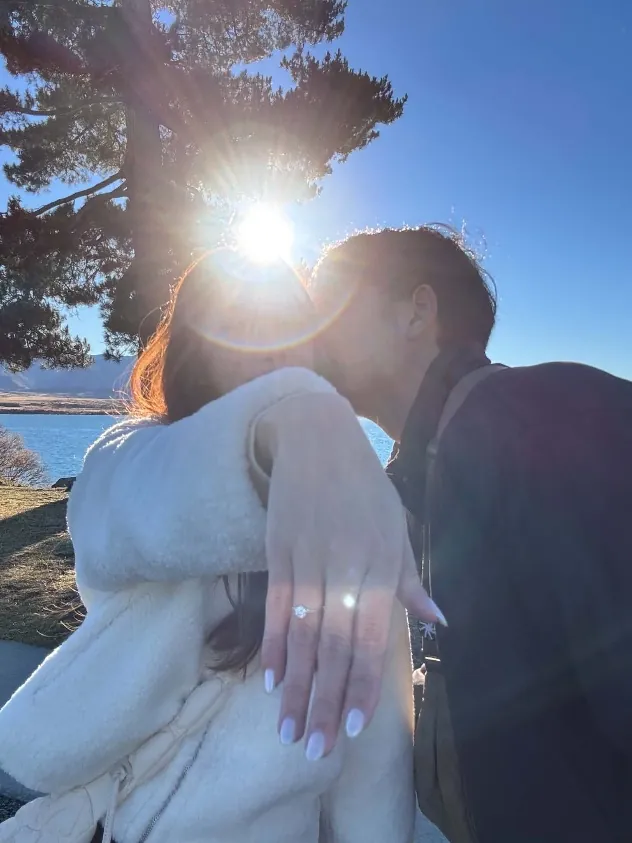
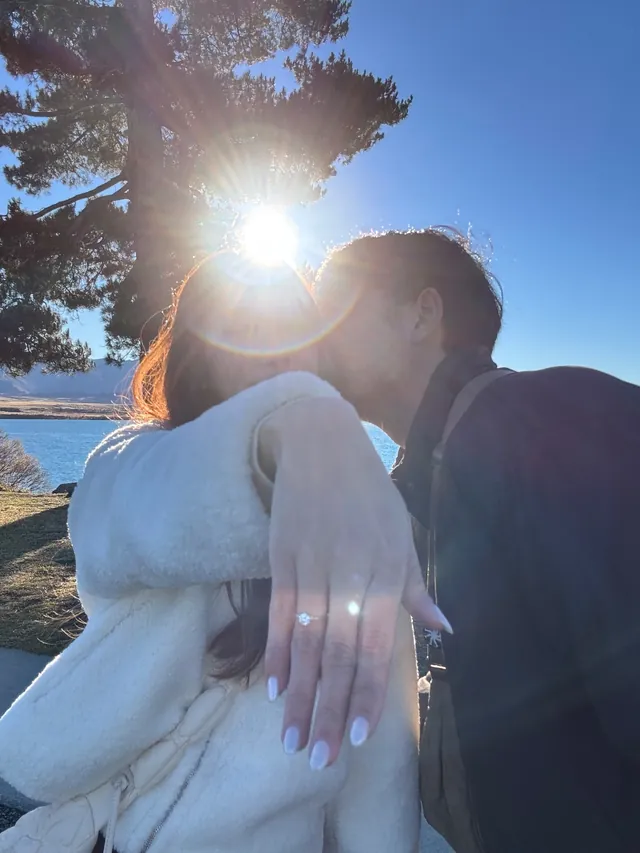
Our Story: full-resolution New Zealand ring photos
Claude-Session: https://claude.ai/code/session_01DUdYM8obKhpKK1xEQz7N9u

diff --git a/index.html b/index.html
@@ -164,8 +164,8 @@
       <div class="head reveal"><h2 class="title">OUR STORY</h2><p class="mono-sub">Eve &amp; Bob</p></div>
       <div class="story-grid">
         <div class="prints reveal">
-          <figure class="print a"><picture><source type="image/webp" srcset="assets/img/photos/nz-01-640.webp"><img loading="lazy" decoding="async" src="assets/img/photos/nz-01.jpg" width="632" height="843" alt="อีฟโชว์แหวนหมั้นคู่กับบ็อบ ที่นิวซีแลนด์"></picture><figcaption>New Zealand</figcaption></figure>
-          <figure class="print b"><picture><source type="image/webp" srcset="assets/img/photos/nz-02-640.webp"><img loading="lazy" decoding="async" src="assets/img/photos/nz-02.jpg" width="632" height="843" alt="จูบกันริมทะเลสาบ อีฟโชว์แหวน ที่นิวซีแลนด์"></picture><figcaption>She said yes</figcaption></figure>
+          <figure class="print a"><picture><source type="image/webp" srcset="assets/img/photos/nz-01-640.webp"><img loading="lazy" decoding="async" src="assets/img/photos/nz-01.jpg" width="844" height="1125" alt="อีฟโชว์แหวนหมั้นคู่กับบ็อบ ที่นิวซีแลนด์"></picture><figcaption>New Zealand</figcaption></figure>
+          <figure class="print b"><picture><source type="image/webp" srcset="assets/img/photos/nz-02-640.webp"><img loading="lazy" decoding="async" src="assets/img/photos/nz-02.jpg" width="1125" height="1500" alt="จูบกันริมทะเลสาบ อีฟโชว์แหวน ที่นิวซีแลนด์"></picture><figcaption>She said yes</figcaption></figure>
         </div>
         <blockquote class="yes-poem reveal">
           <p>It was yes then, it is yes now,<br>and it will always be yes.</p>
